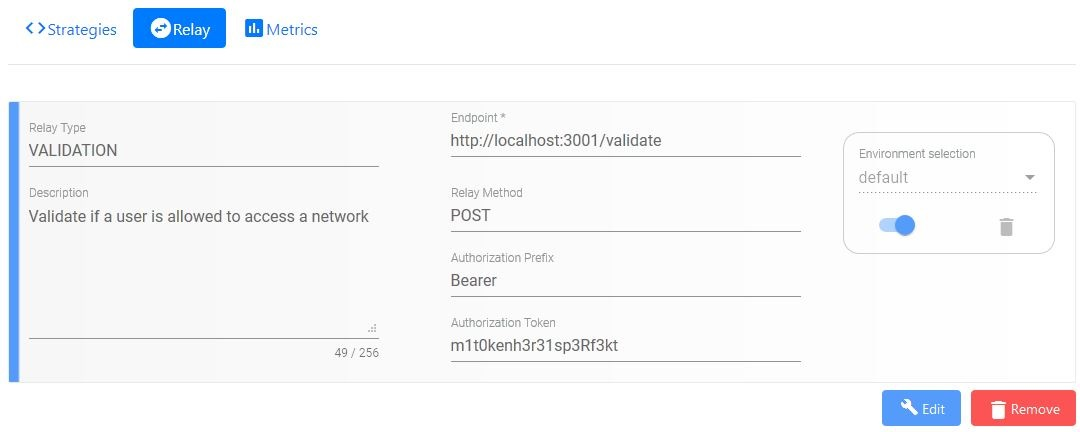
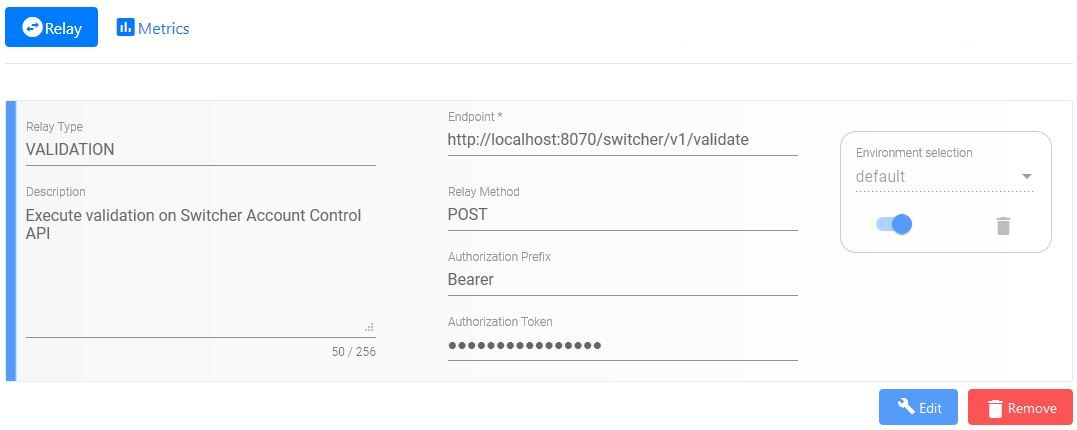
fix: Fixed small CSS issues found on mobile viewport

diff --git a/src/app/dashboard-module/domain-module/config/strategy-detail/strategy-detail.component.css b/src/app/dashboard-module/domain-module/config/strategy-detail/strategy-detail.component.css
@@ -37,6 +37,41 @@
   display: block ruby;
 }
 
+@media only screen and (max-width: 1200px) {
+  .description {
+    display: grid;
+    align-self: start;
+    width: 95% !important;
+  }
+
+  .operations-style {
+    margin-top: 10px;
+    width: 90% !important;
+  }
+
+  .strategy-values-control {
+    display: flex;
+  }
+
+  .strategy-control-style {
+    display: flex;
+  }
+
+  .description-values {
+    display: flex;
+  }
+  
+  :host /deep/ .mat-card {
+    margin-right: 10px;
+  }
+}
+
+@media only screen and (max-width: 770px) {
+  .options-section-label {
+    display: none;
+  }
+}
+
 @media only screen and (max-width: 430px) {
   .header {
     columns: 1;
@@ -83,37 +118,6 @@
   .strategy-control-style {
     display: grid !important;
     width: 80%;
-  }
-
-  .description-values {
-    display: flex;
-  }
-}
-
-@media only screen and (max-width: 770px) {
-  .options-section-label {
-    display: none;
-  }
-}
-
-@media only screen and (max-width: 1200px) {
-  .description {
-    display: grid;
-    align-self: start;
-    width: 95% !important;
-  }
-
-  .operations-style {
-    margin-top: 10px;
-    width: 90% !important;
-  }
-
-  .strategy-values-control {
-    display: flex;
-  }
-
-  .strategy-control-style {
-    display: flex;
   }
 
   .description-values {

diff --git a/src/app/dashboard-module/domain-module/common/css/list.component.css b/src/app/dashboard-module/domain-module/common/css/list.component.css
@@ -9,6 +9,16 @@ mat-icon {
   color: white;
 }
 
+.div-btn-new {
+  width: 100%; 
+  margin: auto;
+}
+
+.options-section-label {
+  vertical-align: baseline !important;
+  display: contents;
+}
+
 .svg-style {
   margin-right: 6px;
   margin-bottom: 6px;
@@ -16,13 +26,12 @@ mat-icon {
 }
 
 .header-style {
-  display: inherit; 
-  padding-top: 10px;
+  display: flex;
 }
 
 .environment-style {
-  float: right; 
-  margin-top: -10px;
+  float: right;
+  margin-top: 10px;
 }
 
 :host /deep/ .block-ui-wrapper {
@@ -76,12 +85,12 @@ mat-icon {
 }
 
 @media only screen and (max-width: 600px) {
-  .header-style {
-    display: grid;
-  }
-
   .environment-style {
     float: right; 
     margin-top: 10px;
+  }
+
+  .options-section-label {
+    display: none;
   }
 }

diff --git a/src/app/dashboard-module/domain-module/config/relay-detail/relay-detail.component.html b/src/app/dashboard-module/domain-module/config/relay-detail/relay-detail.component.html
@@ -39,7 +39,7 @@
                             [ngStyle]="editing ? {'color': 'black'} : ''" readonly="{{ !editing }}" autocomplete="off">
                     </mat-form-field>
                     <mat-form-field>
-                        <input #authTokenElement matInput placeholder="Authorization Token" maxlength="200"
+                        <input #authTokenElement matInput placeholder="Authorization Token" maxlength="200" type="{{ !editing ? 'password' : 'text' }}"
                                 [ngStyle]="editing ? {'color': 'black'} : ''" readonly="{{ !editing }}" autocomplete="off">
                     </mat-form-field>
                 </div>

diff --git a/src/app/dashboard-module/domain-module/config/config-list/config-list.component.html b/src/app/dashboard-module/domain-module/config/config-list/config-list.component.html
@@ -5,10 +5,10 @@
 <div *ngIf="error" class="alert alert-danger mt-3 mb-0">{{error}}</div>
 <div *ngIf="!loading && !error" [ngClass]="cardListContainerStyle" style="border: 0px; margin: 0px !important;">
     <div class="header-style">
-        <div style="width: 100%;">
+        <div class="div-btn-new">
             <button mat-button class="btn-element" (click)="createConfig()" [disabled]="!creatable">
                 <mat-icon style="font-size: large;">build</mat-icon>
-                Create New
+                <div class="options-section-label">Create New</div>
             </button>
         </div>
         <div class="environment-style">

diff --git a/src/app/dashboard-module/domain-module/group/group-list/group-list.component.html b/src/app/dashboard-module/domain-module/group/group-list/group-list.component.html
@@ -5,10 +5,10 @@
 <div *ngIf="error" class="alert alert-danger mt-3 mb-0">{{error}}</div>
 <div *ngIf="!loading && !error" [ngClass]="cardListContainerStyle" style="border: 0px; margin: 0px !important;">
     <div class="header-style">
-        <div style="width: 100%;">
+        <div class="div-btn-new">
             <button mat-button class="btn-element" (click)="createGroup()" [disabled]="!creatable">
                 <mat-icon style="font-size: large;">build</mat-icon>
-                Create New
+                <div class="options-section-label">Create New</div>
             </button>
         </div>
         <div class="environment-style">

diff --git a/src/app/dashboard-module/domain-module/config/relay-detail/relay-detail.component.css b/src/app/dashboard-module/domain-module/config/relay-detail/relay-detail.component.css
@@ -12,6 +12,13 @@
   display: contents;
 }
 
+.invisible{
+  display: block;
+  visibility: hidden;
+  height: 0;
+  width: 0;
+}
+
 @media only screen and (max-width: 430px) {
   .description {
     display: grid;

diff --git a/src/app/dashboard-module/domain-module/domain/domain.component.css b/src/app/dashboard-module/domain-module/domain/domain.component.css
@@ -95,4 +95,12 @@ h4 {
     padding-left: 10px;
     padding-right: 10px;
   }
+
+  h4 {
+    font-size: inherit;
+  }
+
+  .router-history {
+    font-size: smaller;
+  }
 }

diff --git a/src/app/dashboard-module/domain-module/common/css/preview.component.css b/src/app/dashboard-module/domain-module/common/css/preview.component.css
@@ -118,6 +118,7 @@ mat-icon {
     grid-area: header;
     display: inline-flex;
     width: 100% !important;
+    font-size: inherit;
   }
 
   .grid-container {
